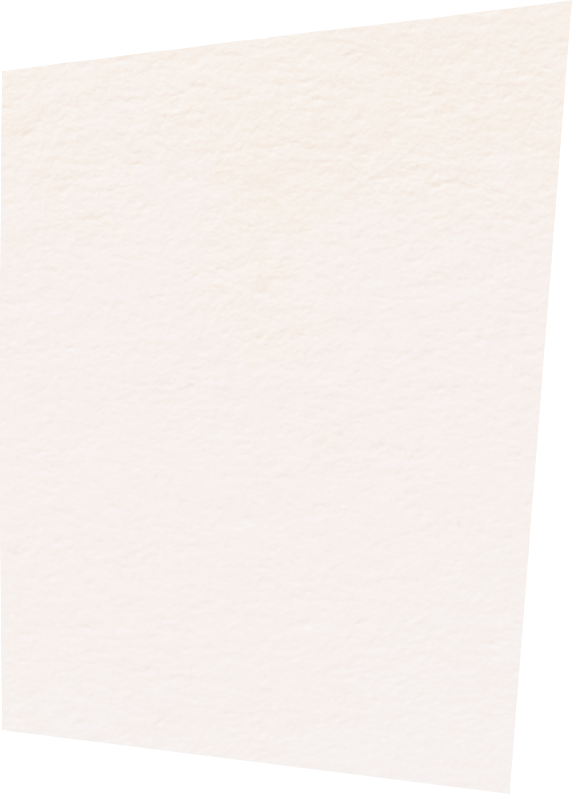
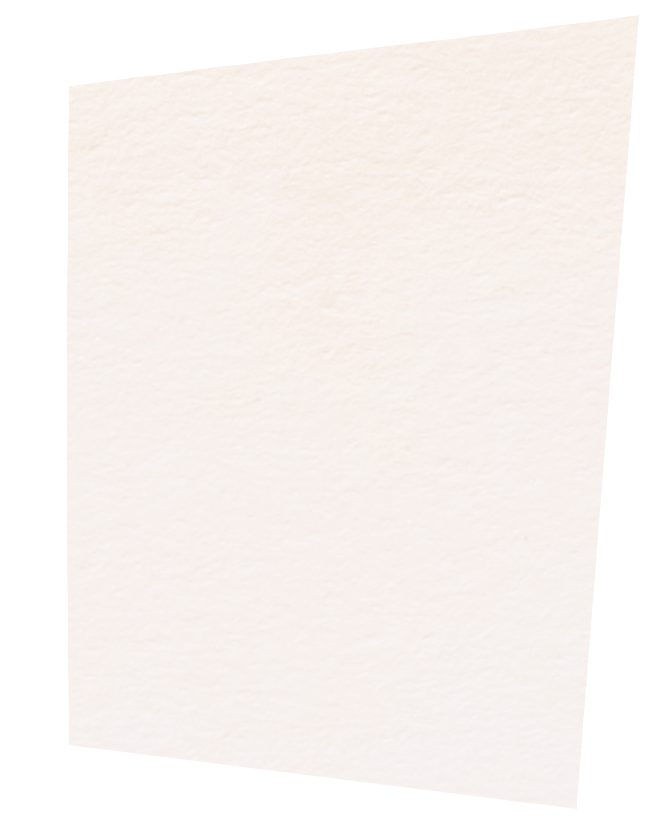
Use journal background and center it

diff --git a/src/client/play.ts b/src/client/play.ts
@@ -228,6 +228,7 @@ let modal_inventory_descr: Sprite;
 let modal_label_inventory: Sprite;
 let modal_label_options: Sprite;
 let modal_label_journal: Sprite;
+let modal_bg_journal: Sprite;
 
 const style_text = fontStyle(null, {
   color: 0xFFFFFFff,
@@ -269,7 +270,7 @@ const selbox_display: Partial<SelectionBoxDisplay> = {
 };
 
 export function modalBackground(
-  min_w: number, min_h: number, label: Sprite | null, z_override?: number, yoffs?: number
+  min_w: number, min_h: number, label: Sprite | null, z_override?: number, yoffs?: number, other_bg_img?: Sprite,
 ): void {
   let z = z_override || Z.MODAL;
   let modal_frame_h = min_h * 825/605;
@@ -284,16 +285,23 @@ export function modalBackground(
     z: z + 0.3,
   };
   modal_frame.draw(box);
-  modal_bg_bottom_add.draw({
-    ...box,
-    z: z + 0.1,
-    blend: BLEND_ADDITIVE,
-  });
-  modal_bg_top_mult.draw({
-    ...box,
-    z: z + 0.2,
-    blend: BLEND_MULTIPLY,
-  });
+  if (other_bg_img) {
+    other_bg_img.draw({
+      ...box,
+      z: z + 0.1,
+    });
+  } else {
+    modal_bg_bottom_add.draw({
+      ...box,
+      z: z + 0.1,
+      blend: BLEND_ADDITIVE,
+    });
+    modal_bg_top_mult.draw({
+      ...box,
+      z: z + 0.2,
+      blend: BLEND_MULTIPLY,
+    });
+  }
   if (label) {
     let label_w = label.texs[0].src_width / 674 * 155;
     label.draw({
@@ -935,7 +943,8 @@ function journalMenu(): void {
       text: pair[1]
     }).h + line_pad;
   });
-  modalBackground(INVENTORY_W, INVENTORY_H, modal_label_journal);
+
+  modalBackground(INVENTORY_W, INVENTORY_H, modal_label_journal, undefined, undefined, modal_bg_journal);
 }
 
 let temp_inventory: Item[];
@@ -2178,6 +2187,13 @@ export function playStartup(): void {
   });
   modal_bg_top_mult = spriteCreate({
     name: 'modal-bg-top-mult',
+    filter_mag: gl.LINEAR,
+    filter_min: gl.LINEAR,
+    wrap_s: gl.CLAMP_TO_EDGE,
+    wrap_t: gl.CLAMP_TO_EDGE,
+  });
+  modal_bg_journal = spriteCreate({
+    name: 'modal-the-plan',
     filter_mag: gl.LINEAR,
     filter_min: gl.LINEAR,
     wrap_s: gl.CLAMP_TO_EDGE,
